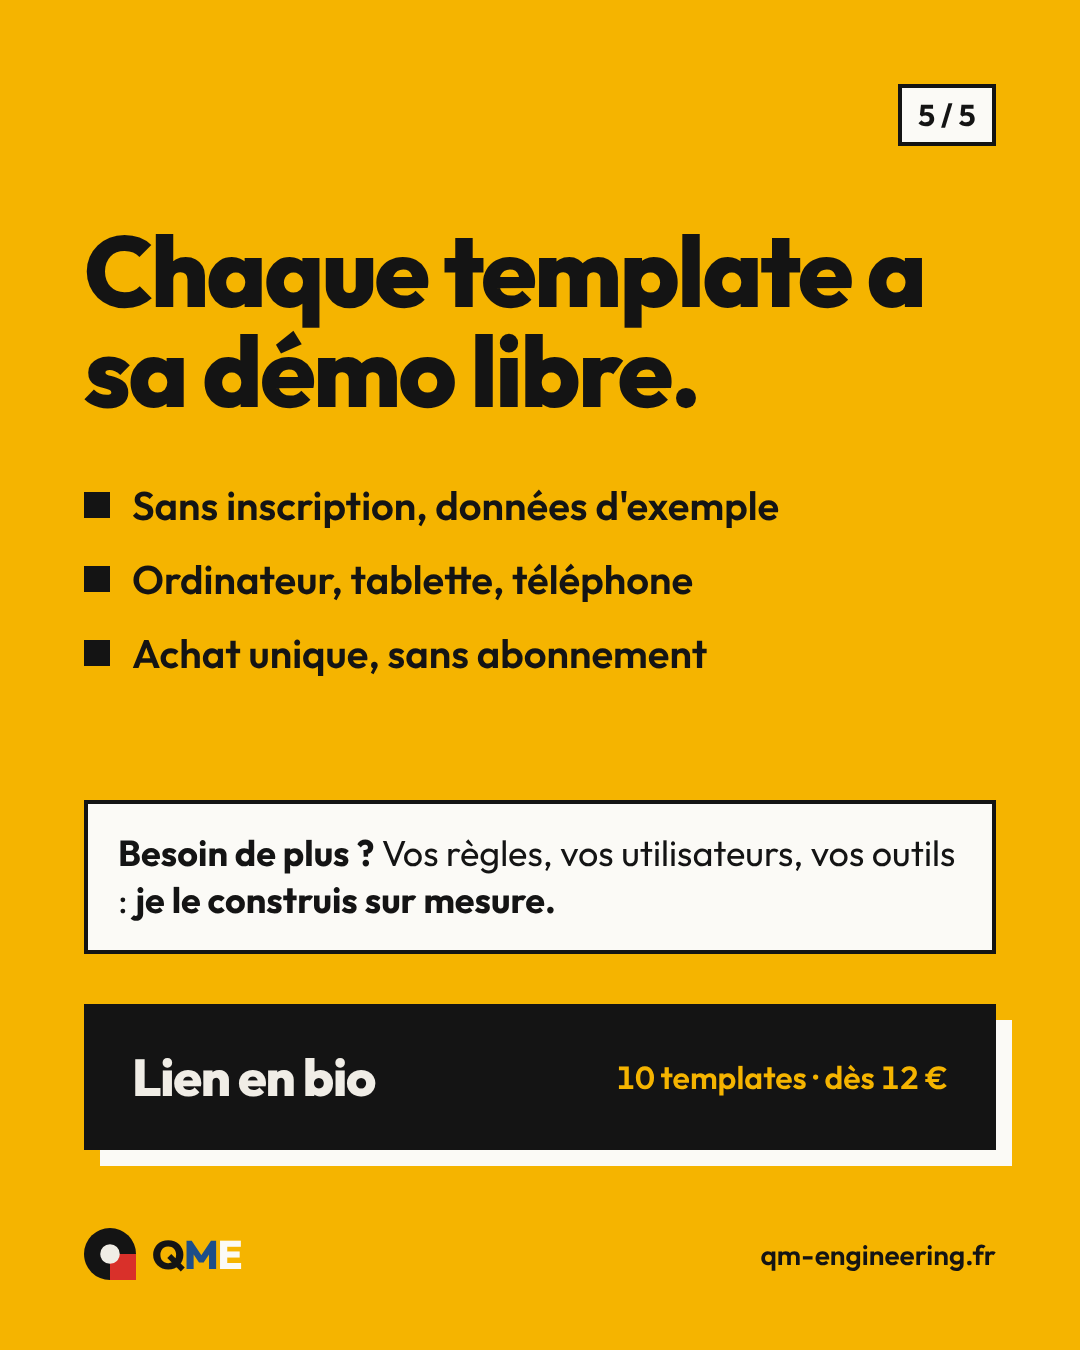
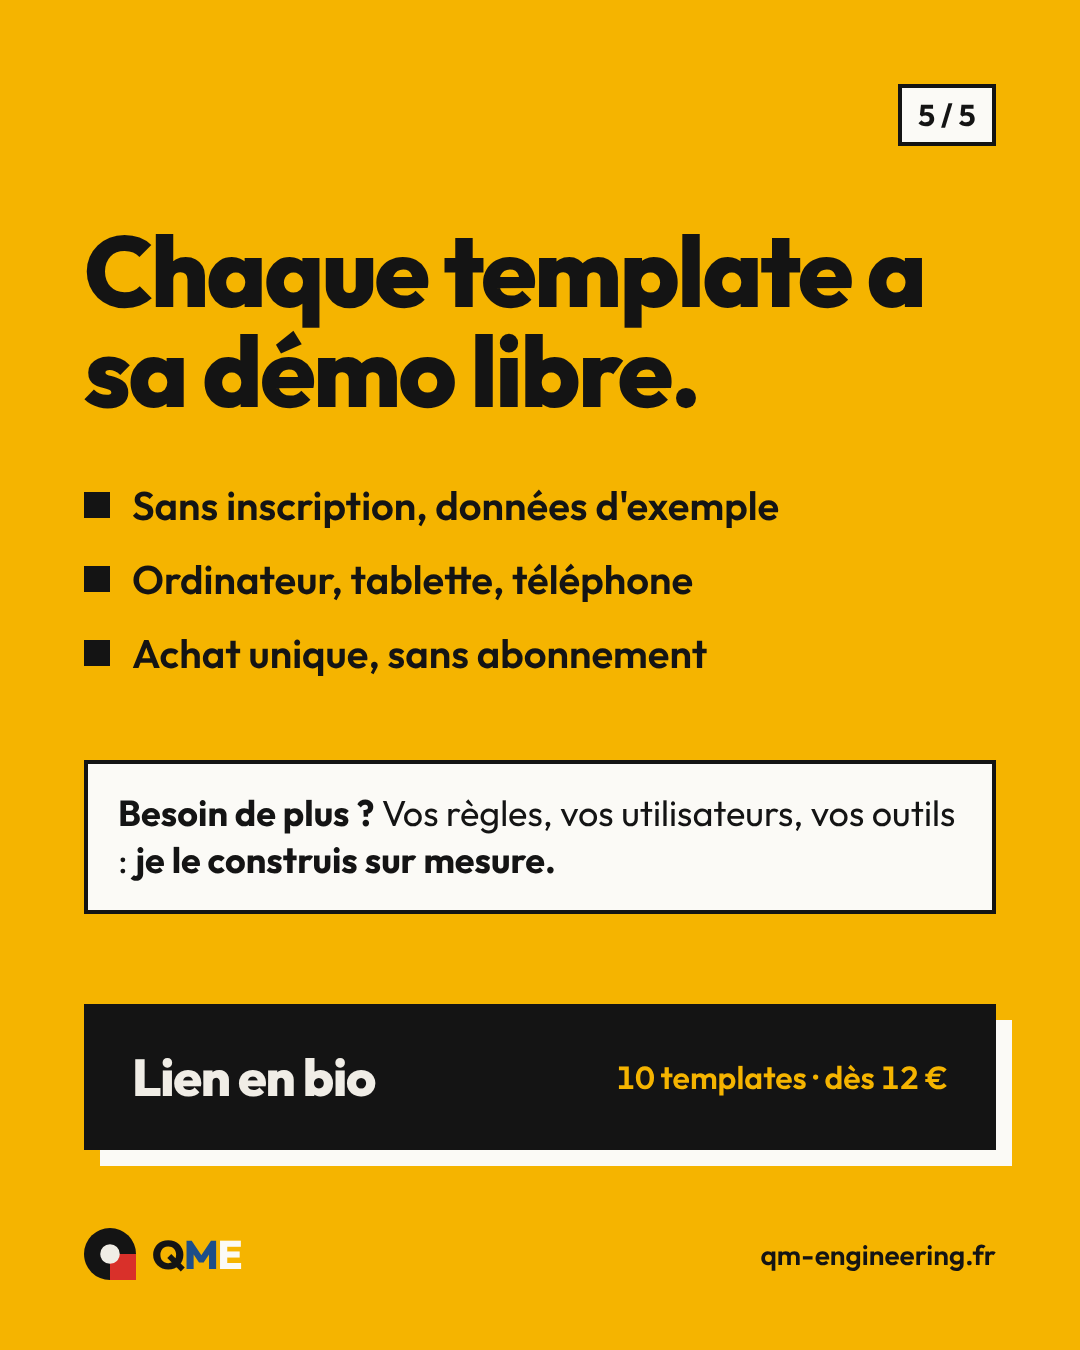
Instagram : IG-04 (compte rendu) et IG-05 (coût de revient), carrousels et stories
Claude-Session: https://claude.ai/code/session_0183EW53fCqQKppyQ36azHjF

Changed region(s): [[0.0611, 0.56, 0.9472, 0.7156]]

diff --git a/docs/templates/communication/instagram/publications.html b/docs/templates/communication/instagram/publications.html
@@ -55,7 +55,7 @@ h1,h2,p{letter-spacing:-.025em}
 .cta .liste{margin-top:60px;display:flex;flex-direction:column;gap:24px;font-size:40px;font-weight:600}
 .cta .liste div{display:flex;gap:22px;align-items:center}
 .cta .liste i{width:26px;height:26px;background:var(--encre);flex:none}
-.cta .plus{position:absolute;left:84px;right:84px;top:800px;background:var(--surface);border:4px solid var(--encre);padding:26px 30px;font-size:36px;line-height:1.3}
+.cta .plus{position:absolute;left:84px;right:84px;top:760px;background:var(--surface);border:4px solid var(--encre);padding:26px 30px;font-size:36px;line-height:1.3}
 .cta .bouton{position:absolute;left:84px;right:84px;bottom:200px;background:var(--encre);color:var(--papier);padding:40px 48px;box-shadow:16px 16px 0 var(--surface);display:flex;justify-content:space-between;align-items:center}
 .cta .bouton b{font-size:52px;font-weight:800;letter-spacing:-.025em}
 .cta .bouton span{font-size:32px;font-weight:600;color:var(--jaune)}
@@ -115,6 +115,28 @@ h1,h2,p{letter-spacing:-.025em}
 .cta.rouge .pied{color:#fff}
 .cta.rouge .compteur{color:var(--encre)}
 #IG-02-template-ou-sur-mesure-1 h1{font-size:108px}
+
+/* IG-04, IG-05 : carrousels de template */
+.probleme{background:var(--encre);color:var(--papier)}
+.probleme .t{position:absolute;left:84px;right:84px;top:300px;font-size:76px;font-weight:800;line-height:1.08;letter-spacing:-.025em}
+.probleme .t em{font-style:normal;color:var(--jaune)}
+.probleme .f{position:absolute;right:0;bottom:0;width:300px;height:300px;background:var(--rouge);border-top-left-radius:300px}
+.probleme .compteur{background:var(--encre);color:var(--papier);border-color:var(--papier)}
+.ecran{position:absolute;left:84px;right:84px;height:560px;overflow:hidden;border:6px solid var(--encre);box-shadow:16px 16px 0 var(--encre);background:var(--surface)}
+.ecran img{width:100%;display:block}
+.trois{position:absolute;left:84px;right:84px;display:flex;flex-direction:column;gap:24px}
+.trois div{border-left:10px solid var(--jaune);padding-left:24px;font-size:31px;line-height:1.3;color:var(--texte-2)}
+.trois b{color:var(--encre);font-weight:800}
+.modeles{position:absolute;left:84px;width:500px;top:390px;display:flex;flex-direction:column;gap:12px}
+.modeles span{background:var(--surface);border:3px solid var(--encre);padding:10px 18px;font-size:29px;font-weight:600}
+.story-t{width:1080px!important;height:1920px!important;background:var(--encre)!important;color:var(--papier)}
+.story-t .c{position:absolute;left:84px;right:84px;top:300px}
+.story-t .c p{color:var(--jaune)}
+.story-t h1{font-size:104px;font-weight:800;line-height:1;margin-top:28px}
+.story-t .s{font-size:40px;line-height:1.3;color:#D9D4C8;margin-top:30px;font-weight:500}
+.story-t .tel{position:absolute;left:50%;transform:translateX(-50%);top:820px;width:400px;box-shadow:16px 16px 0 var(--rouge)}
+.story-t .lien{position:absolute;left:50%;transform:translateX(-50%);bottom:380px;background:var(--surface);color:var(--encre);font-weight:800;font-size:40px;padding:22px 40px;white-space:nowrap;border:6px solid var(--jaune)}
+.story-t .px{position:absolute;right:84px;top:240px;background:var(--jaune);color:var(--encre);font-weight:800;font-size:44px;padding:8px 20px}
 </style>
 </head>
 <body>
@@ -308,6 +330,123 @@ h1,h2,p{letter-spacing:-.025em}
   </div>
   <div style="position:absolute;right:84px;top:520px;background:var(--jaune);border:4px solid var(--encre);padding:22px 28px;font-weight:800;font-size:40px;letter-spacing:-.025em">Lien en bio</div>
   <div class="pied"><span class="marque"><svg viewBox="0 0 80 80"><use href="#symbole"/></svg><span>Q<span class="m">M</span><span class="e">E</span></span></span><span style="color:var(--discret);font-weight:500;font-size:24px">Données fictives</span></div>
+</section>
+
+
+<!-- ============ IG-04 · T31 Compte rendu et plan d'actions ============ -->
+<section class="cadre couv" id="IG-04-compte-rendu-1">
+  <div class="fa"></div><div class="fb"></div><div class="fc"></div>
+  <span class="compteur" style="right:auto;left:84px">1 / 5</span>
+  <div class="titre">
+    <p class="sourcil" style="color:var(--rouge)">Réunions</p>
+    <h1 style="margin-top:30px;font-size:112px">« Qui devait envoyer le <mark>devis</mark>, déjà ? »</h1>
+    <p class="sous">Si la question revient à chaque réunion, le problème est entre deux réunions.</p>
+  </div>
+  <p class="glisser">Faites glisser <span></span></p>
+</section>
+
+<section class="cadre probleme" id="IG-04-compte-rendu-2">
+  <span class="compteur">2 / 5</span>
+  <p class="t">Le compte rendu part par e-mail.<br><br>Les actions vivent dans la mémoire de chacun…<br><br><em>jusqu'à la réunion suivante.</em></p>
+  <div class="f"></div>
+</section>
+
+<section class="cadre choix" id="IG-04-compte-rendu-3">
+  <div class="bandeau" style="background:var(--bleu);color:#fff"><p class="sourcil" style="opacity:.85">Compte rendu et plan d'actions</p><h2>Une ligne, une action.</h2></div>
+  <span class="compteur">3 / 5</span>
+  <div class="ecran" style="top:360px"><img src="../../../../assets/templates-compte-rendu-saisie.webp" alt="" style="margin-top:-20px"></div>
+  <div class="trois" style="top:980px">
+    <div><b>« Marie : devis avant vendredi »</b> crée l'action, avec responsable et échéance.</div>
+    <div><b>À la réunion suivante</b>, les actions ouvertes reviennent seules.</div>
+    <div><b>Une vue par personne</b>, les retards en évidence.</div>
+  </div>
+  <p class="note">Données fictives</p>
+</section>
+
+<section class="cadre choix" id="IG-04-compte-rendu-4">
+  <div class="bandeau" style="background:var(--jaune)"><p class="sourcil">Prêt à l'emploi</p><h2>Huit modèles de réunion.</h2></div>
+  <span class="compteur">4 / 5</span>
+  <div class="modeles"><span>Point d'équipe</span><span>Comité de pilotage</span><span>Réunion de chantier</span><span>Point client</span><span>Rétrospective</span><span>Lancement de projet</span><span>Conseil d'administration</span><span>Entretien individuel</span></div>
+  <div class="tel" style="position:absolute;right:84px;top:390px;width:380px"><img src="../../../../assets/templates-compte-rendu-tel.webp" alt=""></div>
+  <p style="position:absolute;left:84px;right:84px;top:1110px;font-size:32px;line-height:1.3;color:var(--texte-2)">Le compte rendu se copie dans un e-mail ou s'imprime en A4, en un clic.</p>
+  <p class="note">Données fictives</p>
+</section>
+
+<section class="cadre cta" id="IG-04-compte-rendu-5">
+  <span class="compteur">5 / 5</span>
+  <div class="bloc">
+    <h2>Essayez-le avec une équipe fictive.</h2>
+    <div class="liste"><div><i></i>Démo libre, sans inscription</div><div><i></i>Ordinateur, tablette, téléphone</div><div><i></i>Achat unique, sans abonnement</div></div>
+  </div>
+  <div class="plus"><b>Besoin de plus ?</b> Votre circuit de validation, vos diffusions, les outils de l'équipe : <b>je le construis sur mesure.</b></div>
+  <div class="bouton"><b>Lien en bio</b><span>15 € · accès à vie</span></div>
+  <div class="pied"><span class="marque"><svg viewBox="0 0 80 80"><use href="#symbole"/></svg><span>Q<span class="m">M</span><span style="color:var(--surface)">E</span></span></span><span>qm-engineering.fr</span></div>
+</section>
+
+<section class="cadre story-t" id="IG-04-compte-rendu-story">
+  <span class="px">15 €</span>
+  <div class="c"><p class="sourcil">Template QME</p><h1>Compte rendu et plan d'actions</h1><p class="s">Aucune action perdue entre deux réunions.</p></div>
+  <div class="tel"><img src="../../../../assets/templates-compte-rendu-tel.webp" alt=""></div>
+  <div class="lien">Essayer la démo ↗</div>
+</section>
+
+<!-- ============ IG-05 · T37 Coût de revient et prix par client ============ -->
+<section class="cadre couv" id="IG-05-cout-revient-1">
+  <div class="fa" style="background:var(--bleu)"></div><div class="fb"></div><div class="fc" style="background:var(--rouge)"></div>
+  <span class="compteur" style="right:auto;left:84px">1 / 5</span>
+  <div class="titre">
+    <p class="sourcil" style="color:var(--bleu)">Indépendants</p>
+    <h1 style="margin-top:30px;font-size:112px">Combien vous coûte <mark>une heure</mark> ?</h1>
+    <p class="sous">Pas ce que vous facturez : ce qu'elle vous coûte.</p>
+  </div>
+  <p class="glisser">Faites glisser <span></span></p>
+</section>
+
+<section class="cadre probleme" id="IG-05-cout-revient-2">
+  <span class="compteur">2 / 5</span>
+  <p class="t">Un client qui paie bien n'est pas forcément un client rentable.<br><br><em>Tout dépend du temps qu'il vous prend.</em></p>
+  <div class="f" style="background:var(--bleu)"></div>
+</section>
+
+<section class="cadre choix" id="IG-05-cout-revient-3">
+  <div class="bandeau" style="background:var(--bleu);color:#fff"><p class="sourcil" style="opacity:.85">Coût de revient et prix par client</p><h2>De l'année à l'heure.</h2></div>
+  <span class="compteur">3 / 5</span>
+  <div class="ecran" style="top:360px"><img src="../../../../assets/templates-cout-revient-synthese.webp" alt=""></div>
+  <div class="trois" style="top:980px">
+    <div><b>Les jours ouvrés sont calculés</b>, fériés compris, puis le temps non facturable est retiré.</div>
+    <div><b>Coût par heure et par jour</b>, prix plancher et prix conseillé.</div>
+    <div><b>Aucun taux figé</b> : vous saisissez vos cotisations.</div>
+  </div>
+  <p class="note">Données fictives</p>
+</section>
+
+<section class="cadre choix" id="IG-05-cout-revient-4">
+  <div class="bandeau" style="background:var(--jaune)"><p class="sourcil">Client par client</p><h2 style="max-width:none">Qui est vraiment rentable&nbsp;?</h2></div>
+  <span class="compteur">4 / 5</span>
+  <div class="ecran" style="top:360px"><img src="../../../../assets/templates-cout-revient-clients.webp" alt=""></div>
+  <div class="trois" style="top:980px">
+    <div><b>Temps passé, frais, factures</b> : marge et taux horaire réel de chaque client.</div>
+    <div><b>Sous le plancher</b> : le client est signalé.</div>
+  </div>
+  <p style="position:absolute;left:84px;right:84px;bottom:76px;font-size:24px;color:var(--discret)">Aide à la décision, pas un conseil comptable · données fictives</p>
+</section>
+
+<section class="cadre cta" id="IG-05-cout-revient-5">
+  <span class="compteur">5 / 5</span>
+  <div class="bloc">
+    <h2>Essayez-le avec une activité fictive.</h2>
+    <div class="liste"><div><i></i>Démo libre, sans inscription</div><div><i></i>Ordinateur, tablette, téléphone</div><div><i></i>Achat unique, sans abonnement</div></div>
+  </div>
+  <div class="plus"><b>Besoin de plus ?</b> Relié à vos devis, votre facturation ou votre suivi des temps : <b>je le construis sur mesure.</b></div>
+  <div class="bouton"><b>Lien en bio</b><span>25 € · accès à vie</span></div>
+  <div class="pied"><span class="marque"><svg viewBox="0 0 80 80"><use href="#symbole"/></svg><span>Q<span class="m">M</span><span style="color:var(--surface)">E</span></span></span><span>qm-engineering.fr</span></div>
+</section>
+
+<section class="cadre story-t" id="IG-05-cout-revient-story">
+  <span class="px">25 €</span>
+  <div class="c"><p class="sourcil">Template QME</p><h1>Coût de revient et prix par client</h1><p class="s">Ce que coûte vraiment une heure, et qui est rentable.</p></div>
+  <div class="tel"><img src="../../../../assets/templates-cout-revient-tel.webp" alt=""></div>
+  <div class="lien">Essayer la démo ↗</div>
 </section>
 
 </body>

diff --git a/docs/templates/communication/cout-revient/instagram.md b/docs/templates/communication/cout-revient/instagram.md
@@ -1,0 +1,51 @@
+# Publication Instagram · Coût de revient et prix par client (IG-05)
+
+20/11/2026 à 18:30, lendemain de LI-76. Carrousel 5 vues, statut « Prêt » dans le Sheet « Planning
+publications Instagram » (à relire par Quentin, puis « Programmé » : Instinct publie). Kit :
+`../instagram/README.md`. Visuels : `../instagram/publications.html` → `../instagram/png/IG-05-cout-revient-*.png`.
+
+- Légende publiée : Google Doc `1MhrQds5uajAd1SiOBcVxWCk-0KHKQA8U9_h-WFpoFz0` (dossier Textes).
+- Démo (autocollant lien de la story) : https://qm-engineering.fr/templates/cout-revient/?demo
+- Prix vérifié sur Gumroad le 13/11/2026 : 25 €.
+
+## Vues
+
+1. Question : « Combien vous coûte une heure ? »
+2. Problème (fond encre) : un client qui paie bien n'est pas forcément rentable ; tout dépend du temps
+   qu'il vous prend.
+3. De l'année à l'heure (bandeau bleu, capture Synthèse, 3 points).
+4. Client par client (bandeau jaune, capture Clients) ; « aide à la décision, pas un conseil comptable ».
+5. Appel à l'action (fond jaune) + renvoi au sur mesure (devis, facturation, suivi des temps).
+
+## Accroches
+
+- **A (retenue)** : Combien vous coûte une heure de travail ? Pas ce que vous facturez : ce qu'elle vous coûte.
+- **B** : Un client qui paie bien n'est pas forcément un client rentable.
+
+## Légende
+
+```
+Combien vous coûte une heure de travail ? Pas ce que vous facturez : ce qu'elle vous coûte.
+
+Beaucoup d'indépendants fixent leur tarif en regardant celui des autres. Le bon point de départ, c'est ce que l'activité doit couvrir dans l'année, divisé par le temps réellement facturable.
+
+Le template Coût de revient et prix par client :
+▪ calcule les jours ouvrés (jours fériés compris) et retire le temps non facturable ;
+▪ en déduit le coût par heure et par jour, un prix plancher et un prix conseillé ;
+▪ affiche, client par client, la marge et le taux horaire réel, et signale ceux sous le plancher.
+
+Aucun taux de cotisations figé : vous saisissez le vôtre. C'est une aide à la décision, pas un conseil comptable. Achat unique, 25 €.
+
+Besoin de le relier à vos devis, votre facturation ou votre suivi des temps ? Je construis la version sur mesure.
+
+Démo libre avec une activité fictive, et contact : lien en bio.
+
+#Freelance #Indépendant #Tarification #Entrepreneur #OutilsSurMesure
+```
+
+Textes alternatifs : colonne J du Sheet (un par vue).
+
+## Story d'annonce
+
+`IG-05-cout-revient-story.png` (1080 × 1920) : à publier à la main le 20/11, autocollant « Lien » vers
+la démo, puis à la une « Templates » (et « Indépendants »).

diff --git a/docs/templates/communication/compte-rendu/instagram.md b/docs/templates/communication/compte-rendu/instagram.md
@@ -1,0 +1,52 @@
+# Publication Instagram · Compte rendu et plan d'actions (IG-04)
+
+18/11/2026 à 18:30, lendemain de LI-75. Carrousel 5 vues, statut « Prêt » dans le Sheet « Planning
+publications Instagram » (à relire par Quentin, puis « Programmé » : Instinct publie). Kit :
+`../instagram/README.md`. Visuels : `../instagram/publications.html` → `../instagram/png/IG-04-compte-rendu-*.png`.
+
+- Légende publiée : Google Doc `1RgapiZiPXnTT_pRVxoF_54Owumk-JaHwfWppswZJaAg` (dossier Textes).
+- Démo (autocollant lien de la story) : https://qm-engineering.fr/templates/compte-rendu/?demo
+- Prix vérifié sur Gumroad le 13/11/2026 : 15 €.
+
+## Vues
+
+1. Question : « Qui devait envoyer le devis, déjà ? »
+2. Problème (fond encre) : le compte rendu part par e-mail, les actions vivent dans la mémoire de
+   chacun… jusqu'à la réunion suivante.
+3. Ce que fait le template (bandeau bleu, capture de la saisie rapide, 3 points).
+4. Huit modèles de réunion + capture téléphone ; copie e-mail ou impression A4.
+5. Appel à l'action (fond jaune) + renvoi au sur mesure (circuit de validation, diffusion, outils).
+
+## Accroches
+
+- **A (retenue)** : « Qui devait envoyer le devis, déjà ? »
+- **B** : En pilotage de projet, j'ai vu beaucoup de comptes rendus soignés que personne ne relisait.
+  (à garder seulement si elle correspond à l'expérience réelle de Quentin)
+
+## Légende
+
+```
+« Qui devait envoyer le devis, déjà ? »
+
+Si la question revient à chaque réunion, le problème n'est pas la réunion : c'est ce qui se passe entre deux réunions.
+
+Le template Compte rendu et plan d'actions :
+▪ « Marie : devis avant vendredi » crée l'action, avec son responsable et son échéance ;
+▪ à la réunion suivante, les actions encore ouvertes reviennent d'elles-mêmes ;
+▪ une vue rassemble les actions de toutes les réunions, par personne, retards en évidence.
+
+Huit modèles de réunion inclus. Le compte rendu se copie dans un e-mail ou s'imprime en A4. Achat unique, 15 €.
+
+Vos réunions ont leur propre circuit (validation, diffusion, outils de l'équipe) ? Je construis la version sur mesure.
+
+Démo libre avec une équipe fictive, et contact : lien en bio.
+
+#GestionDeProjet #Réunions #Management #PlanDAction #OutilsSurMesure
+```
+
+Textes alternatifs : colonne J du Sheet (un par vue).
+
+## Story d'annonce
+
+`IG-04-compte-rendu-story.png` (1080 × 1920) : à publier à la main le 18/11, autocollant « Lien » vers
+la démo à la place du bouton dessiné, puis à la une « Templates » (et « Travail »).

diff --git a/docs/templates/IDEES.md b/docs/templates/IDEES.md
@@ -472,7 +472,7 @@ Kit de marque : [`communication/instagram/README.md`](communication/instagram/RE
 Google Sheet « Planning publications Instagram » (dossier Drive « QME – Publications Instagram »),
 créé le 13/11/2026 : IG-01 à IG-03 (lancement, 16/11/2026), puis IG-04 à IG-26, un carrousel par template
 le lendemain de son post LinkedIn (LI-75 à LI-97), à 18:30. Toutes les lignes sont « À préparer » ;
-publication par Instinct (lignes « Programmé ») après relecture de Quentin. Reel de lancement IG-27 le 17/11.
+publication par Instinct (lignes « Programmé ») après relecture de Quentin. Reel de lancement IG-27 le 17/11. IG-04 (T31, 18/11) et IG-05 (T37, 20/11) prêts le 13/11 : `communication/compte-rendu/instagram.md`, `communication/cout-revient/instagram.md`.
 
 ## Première vague (P1 de taille S) · lancée le 12/11/2026
 
